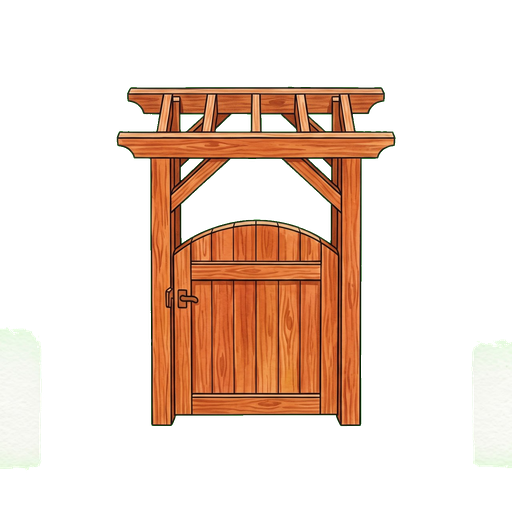
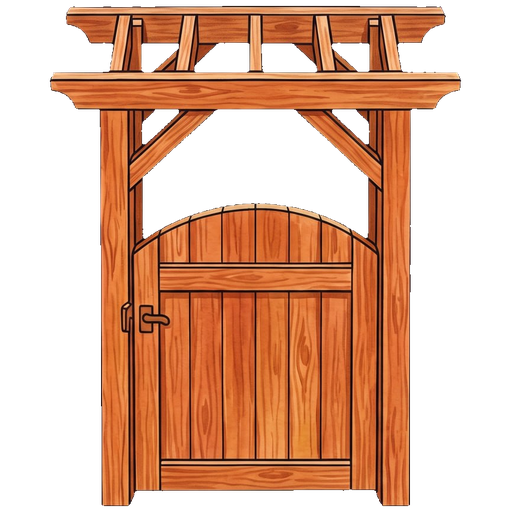
fix: add white+sage gates, tight crop all 6, fix line-draw echo on gate placement, white first in picker

diff --git a/app/src/components/GardenEditor.jsx b/app/src/components/GardenEditor.jsx
@@ -497,10 +497,12 @@ export default function GardenEditor() {
     'decor-arch-wood':    { key: 'decor_arch-wood_XL_CA-US-FR-GB-AU',    label: 'Wood Arch',       family: 'Decor', size: 'XL', src: '/stickers/decor_arch-wood_XL_CA-US-FR-GB-AU.png'    },
     'decor-arch-metal':   { key: 'decor_arch-metal_XL_CA-US-FR-GB-AU',   label: 'Metal Arch',      family: 'Decor', size: 'XL', src: '/stickers/decor_arch-metal_XL_CA-US-FR-GB-AU.png'   },
     // Gates
+    'gate-white':    { key: 'decor_gate-wood-white_XL_CA-US-FR-GB-AU',    label: 'White Gate',    family: 'Gate', size: 'XL', src: '/stickers/decor_gate-wood-white_XL_CA-US-FR-GB-AU.png'    },
     'gate-cedar':    { key: 'decor_gate-wood-cedar_XL_CA-US-FR-GB-AU',    label: 'Cedar Gate',    family: 'Gate', size: 'XL', src: '/stickers/decor_gate-wood-cedar_XL_CA-US-FR-GB-AU.png'    },
     'gate-charcoal': { key: 'decor_gate-wood-charcoal_XL_CA-US-FR-GB-AU', label: 'Charcoal Gate', family: 'Gate', size: 'XL', src: '/stickers/decor_gate-wood-charcoal_XL_CA-US-FR-GB-AU.png' },
     'gate-red':      { key: 'decor_gate-wood-red_XL_CA-US-FR-GB-AU',      label: 'Red Gate',      family: 'Gate', size: 'XL', src: '/stickers/decor_gate-wood-red_XL_CA-US-FR-GB-AU.png'      },
     'gate-blue':     { key: 'decor_gate-wood-blue_XL_CA-US-FR-GB-AU',     label: 'Blue Gate',     family: 'Gate', size: 'XL', src: '/stickers/decor_gate-wood-blue_XL_CA-US-FR-GB-AU.png'     },
+    'gate-sage':     { key: 'decor_gate-wood-sage_XL_CA-US-FR-GB-AU',     label: 'Sage Gate',     family: 'Gate', size: 'XL', src: '/stickers/decor_gate-wood-sage_XL_CA-US-FR-GB-AU.png'     },
     // Fountains - merged from FOUNTAIN_CATALOG (same placement flow as decor stickers)
     'fountain-sm': { key: 'water-feature_fountain-sm_S_CA-US-FR-GB-AU', label: 'Small Fountain',  family: 'Water Feature', size: 'S', src: '/stickers/water-feature_fountain-sm_S_CA-US-FR-GB-AU.png' },
     'fountain-md': { key: 'water-feature_fountain-md_M_CA-US-FR-GB-AU', label: 'Medium Fountain', family: 'Water Feature', size: 'M', src: '/stickers/water-feature_fountain-md_M_CA-US-FR-GB-AU.png' },

diff --git a/app/src/hooks/useGardenState.js b/app/src/hooks/useGardenState.js
@@ -152,11 +152,13 @@ export const ELEC_COLOURS    = ['#111111','#E53935','#FDD835']
 export const PLUMB_COLOURS   = ['#757575','#1976D2','#6D4C41']
 
 export const GATE_VARIANTS = {
-  'decor_gate-wood-cedar_XL_CA-US-FR-GB-AU': [
-    { label: 'Cedar',    colour: '#8B5E3C', src: null },
+  'decor_gate-wood-white_XL_CA-US-FR-GB-AU': [
+    { label: 'White',    colour: '#F5F5F5', src: null },
+    { label: 'Cedar',    colour: '#8B5E3C', src: '/stickers/decor_gate-wood-cedar_XL_CA-US-FR-GB-AU.png' },
     { label: 'Charcoal', colour: '#3A3A3A', src: '/stickers/decor_gate-wood-charcoal_XL_CA-US-FR-GB-AU.png' },
     { label: 'Red',      colour: '#8B2020', src: '/stickers/decor_gate-wood-red_XL_CA-US-FR-GB-AU.png' },
     { label: 'Blue',     colour: '#3A5FAB', src: '/stickers/decor_gate-wood-blue_XL_CA-US-FR-GB-AU.png' },
+    { label: 'Sage',     colour: '#7A9E7E', src: '/stickers/decor_gate-wood-sage_XL_CA-US-FR-GB-AU.png' },
   ],
 }
 

diff --git a/app/src/utils/drawUtils.js b/app/src/utils/drawUtils.js
@@ -44,7 +44,8 @@ function applyHedgeTexture(shape, layer) {
 export function isFreeMode(currentMode, bedSubTool, fenceSubTool, fenceType, buildingSubTool, waterSubTool, pathSubTool) {
   // null sub-tool = no tool selected yet, never freeform
   if (currentMode === 'beds'     && bedSubTool && bedSubTool !== 'square') return true
-  if (currentMode === 'fences'   && (fenceType === 'fence' || fenceType === 'gate')) return true
+  if (currentMode === 'fences'   && fenceType === 'fence') return true
+  // fenceType === 'gate' is now sticker placement (not line drawing) — do not activate draw tool
   if (currentMode === 'fences'   && fenceType === 'rock-border') return true
   if (currentMode === 'fences'   && fenceSubTool && fenceSubTool !== 'square') return true
   if (currentMode === 'paths'    && pathSubTool) return true

diff --git a/app/src/hooks/useDrawTools.js b/app/src/hooks/useDrawTools.js
@@ -123,7 +123,7 @@ export function useDrawTools({
     const isPath = s.currentMode === 'paths'
     const isUG   = (s.currentMode === 'building' && (s.buildingSubTool === 'underground-electrical' || s.buildingSubTool === 'underground-plumbing')) ||
                    (s.currentMode === 'water' && s.waterSubTool === 'underground-plumbing')
-    const isFenceOrGate = s.currentMode === 'fences' && (s.fenceType === 'fence' || s.fenceType === 'gate' || s.fenceType === 'rock-border')
+    const isFenceOrGate = s.currentMode === 'fences' && (s.fenceType === 'fence' || s.fenceType === 'rock-border')
     const minPts = (isPath || isUG || isFenceOrGate) ? 2 : 3
     if (pts.length < minPts) {
       // Not enough points — show hint but don't close

diff --git a/app/src/components/toolMenuData.jsx b/app/src/components/toolMenuData.jsx
@@ -204,7 +204,7 @@ export function handleSubChange(id, currentMode, { onBedSubTool, onFenceType, on
   if (currentMode === 'fences')   {
     if (id === null)    { onFenceType(null); onFenceSubTool(null); return }
     if (id === 'fence') { onFenceType('fence'); return }
-    if (id === 'gate')  { onFenceType('gate'); onDecorSubTool('gate-cedar'); return }
+    if (id === 'gate')  { onFenceType('gate'); onDecorSubTool('gate-white'); return }
     if (id === 'rock-border-straight' || id === 'rock-border-curved') { onFenceType('rock-border'); onFenceSubTool(id); return }
     onFenceType('hedge'); onFenceSubTool(id); return
   }
